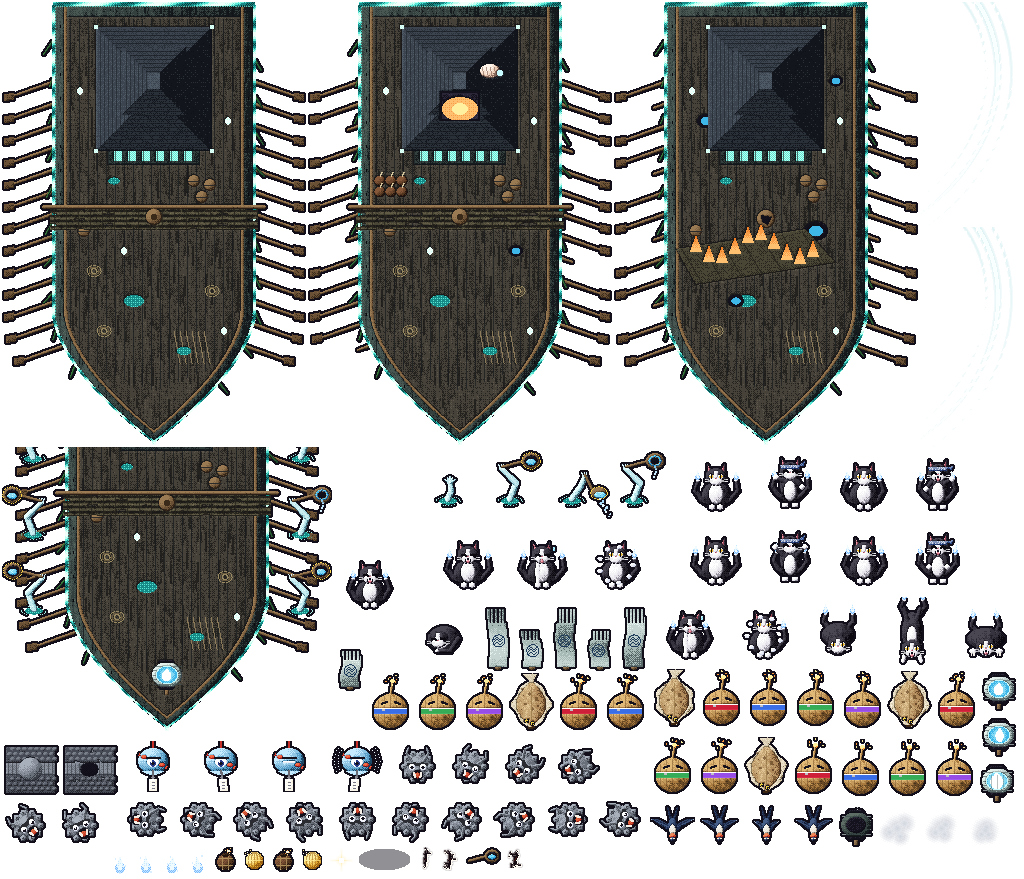
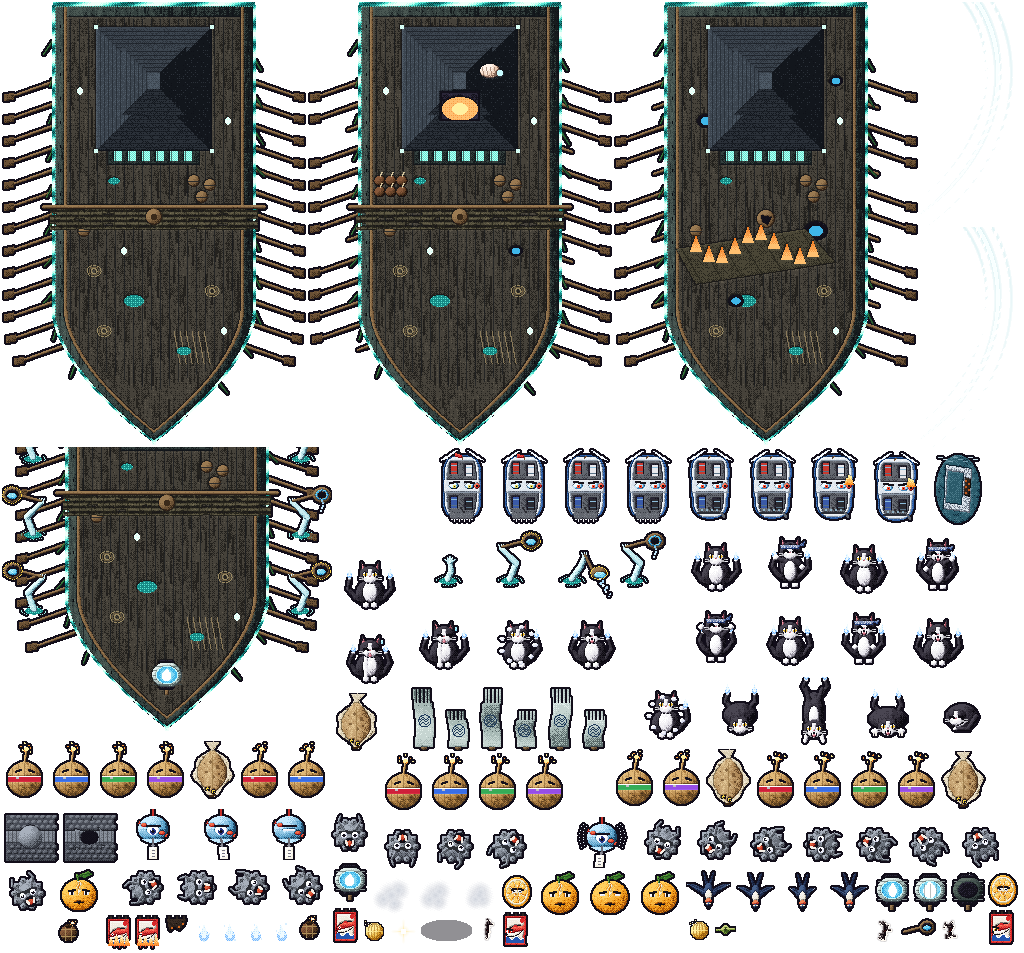
Stronger waves, steps 2-5 for Onomichi and Kyoto: into the game. The designs in the two cities' atlases, their skins (Kyoto's rope of straw, its fox fire blue-white, the clam's knock instead of the squelch). A cart may now sail up the map and stop: Onomichi's ferries dock at the town's pier and stay

diff --git a/src/game/enemies/chainSplitCart.js b/src/game/enemies/chainSplitCart.js
@@ -237,17 +237,21 @@ export const chainSplitCart = {
   },
 
   // ---------------------------------------------------------------- cart
-  /** Down its street (w.x), or across from a screen edge (w.dir -1/1 at w.y), like Sapporo's snowploughs. */
+  /**
+   * Down its street (w.x; w.up: up it, as a ferry crossing against the scroll), or across from a screen edge (w.dir
+   * -1/1 at w.y), like Sapporo's snowploughs. w.stop: where its way ends (a u going up or down, an x going across):
+   * it stops there, as a ferry at its pier, and fights on where it lies.
+   */
   spawnCart(w, base, look) {
     const s = this.scene;
     const horiz = typeof w.dir === 'number';
     const x = horiz ? (w.dir > 0 ? -16 : VIEW.width + 16) : w.x;
     const y = horiz ? w.y : -20;
-    const e = this.pool.spawn(`${look.anim}0_0`, x, y, { ...base, horiz, dir: horiz ? w.dir : 1, wreck: look.wreck, timer: 1.4, cartStage: 0 });
+    const e = this.pool.spawn(`${look.anim}0_0`, x, y, { ...base, horiz, dir: horiz ? w.dir : w.up ? -1 : 1, stop: w.stop ?? null, docked: false, wreck: look.wreck, timer: 1.4, cartStage: 0 });
     e.u = s.parallax.stripU(y);
     e.look = look;
     e.play(`${look.anim}0`);
-    if (horiz) e.setRotation(-e.dir * Math.PI / 2); // (it is drawn driving down the screen)
+    e.setRotation(horiz ? -e.dir * Math.PI / 2 : e.dir < 0 ? Math.PI : 0); // (it is drawn driving down the screen)
     return e;
   },
 
@@ -259,11 +263,21 @@ export const chainSplitCart = {
     // a wheel gone: it limps along slower, lurching
     const limp = e.cartStage >= 2;
     const v = CART.speed * (limp ? 0.6 : 1) * (limp ? 0.75 + Math.abs(Math.sin(e.age * 4)) * 0.5 : 1);
-    if (e.horiz) e.x += e.dir * v * dt;
-    else e.u -= v * dt;
+    if (!e.docked) {
+      if (e.horiz) e.x += e.dir * v * dt;
+      else e.u -= e.dir * v * dt;
+      // (at the end of its way it stops: a ferry at its pier)
+      const at = e.horiz ? e.x : e.u;
+      const past = e.stop != null && (e.horiz ? e.dir * (at - e.stop) : -e.dir * (at - e.stop)) >= 0;
+      if (past) {
+        if (e.horiz) e.x = e.stop;
+        else e.u = e.stop;
+        e.docked = true;
+      }
+    }
     e.y = s.parallax.screenY(e.u);
-    const base = e.horiz ? -e.dir * Math.PI / 2 : 0;
-    e.setRotation(base + (limp ? Math.sin(e.age * 4) * 0.09 : 0));
+    const base = e.horiz ? -e.dir * Math.PI / 2 : e.dir < 0 ? Math.PI : 0;
+    e.setRotation(base + (limp && !e.docked ? Math.sin(e.age * 4) * 0.09 : 0));
     if (e.cartStage >= 3 && Math.random() < dt * 14) {
       // the roof burning
       s.fx.smoke(e.x + (Math.random() - 0.5) * 8, e.y - 6, 1, 2, true);

diff --git a/src/game/skins.js b/src/game/skins.js
@@ -32,6 +32,11 @@ export const SKINS = {
     heavy: { frame: 'tanuki_0', anim: 'tanuki', kind: 'tanuki' },
     tanuki: { frame: 'tanuki_0', anim: 'tanuki', kind: 'tanuki' }, // (the waves name it: look: 'tanuki')
     turret: { base: 'turret_base', head: 'turret_head_', wreck: 'turret_wreck' },
+    // the shared three (enemies/chainSplitCart.js): omikuji on a straw rope catching the fox fire, kai-awase shells, a
+    // yamaboko of the Gion festival driving itself
+    chain: { frame: 'ky_kuji_0', eye: 'ky_kuji_eye_', lit: 'ky_kuji_lit_', burnt: 'ky_kuji_burnt', pole: 'ky_pole', rope: 0xb8a060, char: 0x4a4a56, light: 0x8ad0ff, text: 0xa8e0ff },
+    split: { frame: 'ky_kai_0', anim: 'ky_kai', one: 'ky_kai_one_0', oneAnim: 'ky_kai_one', sound: 'crock' },
+    cart: { anim: 'ky_hoko_', wreck: 'ky_hoko_wreck', debris: 0x6a4a30 },
   },
   okinawa: {
     trap: trap('okinawa', 'water', 13, { kind: 'ring', n: 8 }, 3.4), // a blowhole in the reef (enemies/traps.js)
@@ -163,6 +168,10 @@ export const SKINS = {
     carrier: { frame: 'o_hanabi_{c}_0', anim: 'o_hanabi_{c}' },
     heavy: { frame: 'o_neko_sit_0', kind: 'nekomata' }, // the miniboss: NEKOMATA (onomichi-nekomata.js)
     turret: { base: 'o_ridge_base', head: 'o_oni_head_', wreck: 'o_ridge_wreck', heat: true }, // (its mouth glows red before it fires)
+    // the shared three (enemies/chainSplitCart.js): fishermen's flags on a rope, a hassaku, the ferry over the strait
+    chain: { frame: 'o_bata_0', eye: 'o_bata_eye_', lit: 'o_bata_lit_', burnt: 'o_bata_burnt', pole: 'o_pole' },
+    split: { frame: 'o_hassaku_0', anim: 'o_hassaku', one: 'o_hassaku_one_0', oneAnim: 'o_hassaku_one' },
+    cart: { anim: 'o_ferry_', wreck: 'o_ferry_wreck', debris: 0xdce4ec },
   },
   // Fukuoka (docs/plan-fukuoka.md): plum flowers flying in flocks (tobiume), the spinning top of Hakata, a fugu
   // puffing into spines, Dazaifu's wooden bullfinch carrying the power-ups, an archer of Hakata clay on its stand

diff --git a/src/game/enemyArt.js b/src/game/enemyArt.js
@@ -146,6 +146,10 @@ export const CITY_ANIMS = {
   // Onomichi
   o_tsubame: [four('o_tsubame'), 14], o_debera: [four('o_debera'), 8], o_furin: [four('o_furin'), 3],
   ...Object.fromEntries(['red', 'blue', 'green', 'purple'].map((c) => [`o_hanabi_${c}`, [four(`o_hanabi_${c}`), 6]])),
+  // the shared behaviours' looks (enemies/chainSplitCart.js): Onomichi's hassaku and ferry, Kyoto's shells and float
+  o_hassaku: [four('o_hassaku'), 5], o_hassaku_one: [['o_hassaku_one_0', 'o_hassaku_one_1'], 6],
+  ky_kai: [four('ky_kai'), 4], ky_kai_one: [['ky_kai_one_0', 'ky_kai_one_1'], 6],
+  ...Object.fromEntries([0, 1, 2, 3].flatMap((st) => [[`o_ferry_${st}`, [[`o_ferry_${st}_0`, `o_ferry_${st}_1`], 4]], [`ky_hoko_${st}`, [[`ky_hoko_${st}_0`, `ky_hoko_${st}_1`], 6]]])),
   // Fukuoka
   f_tobiume: [four('f_tobiume'), 12], f_goma: [four('f_goma'), 16], f_fugu: [four('f_fugu'), 3],
   f_mentaiko: [four('f_mentaiko'), 5], f_mentaiko_one: [['f_mentaiko_one_0', 'f_mentaiko_one_1'], 6],

diff --git a/docs/plan-silniejsze-fale.md b/docs/plan-silniejsze-fale.md
@@ -129,4 +129,5 @@ Pierwszy krok, wspólny: przeniesienie zachowań z `fukuoka.js` do wspólnego mo
 | Data | Kto | Krok | Co zrobione | Uwagi |
 |---|---|---|---|---|
 | 2026-11-19 | Claude | 0 | Zachowania przeniesione do `src/game/enemies/chainSplitCart.js` (bez zmian w działaniu; skórka może zmienić kolory liny, światło, kolor punktów, dźwięk pary, odłamki i ogień wozu). Bot w Fukuoce jak przedtem. | |
-| 2026-11-19 | Claude | 1 (Onomichi, Kioto) | Projekty grafiki do akceptacji: `tools/art/onomichi/newfoes.mjs` (flagi tairyō-bata z leszczem nad falą, hassaku i jego połówki, prom z mostkiem-oczami, autami na pokładzie i rampą-szczęką, wrak nisko w wodzie) i `tools/art/kyoto/newfoes.mjs` (omikuji na słomianej linie między cynobrowymi słupkami z lisim ogniem, muszla kai-awase z oczami w szparze i jej złocone połówki z sosną i śliwą, yamaboko z drzewcem, sakaki, halabardą, gobelinami i twarzą demona, wrak przewrócony). Jeszcze nie w atlasach ani w grze. | Czeka na akceptację; prom ma 4 stopnie rozpadu, platforma też. |
+| 2026-11-19 | Claude | 1 (Onomichi, Kioto) | Projekty grafiki do akceptacji: `tools/art/onomichi/newfoes.mjs` (flagi tairyō-bata z leszczem nad falą, hassaku i jego połówki, prom z mostkiem-oczami, autami na pokładzie i rampą-szczęką, wrak nisko w wodzie) i `tools/art/kyoto/newfoes.mjs` (omikuji na słomianej linie między cynobrowymi słupkami z lisim ogniem, muszla kai-awase z oczami w szparze i jej złocone połówki z sosną i śliwą, yamaboko z drzewcem, sakaki, halabardą, gobelinami i twarzą demona, wrak przewrócony). Jeszcze nie w atlasach ani w grze. | Zaakceptowane 2026-11-19. Prom ma 4 stopnie rozpadu, platforma też. |
+| 2026-11-19 | Claude | 2-5 (Onomichi, Kioto) | Grafika w atlasach `bg/stage11` i `bg/stage1`, skórki `chain`/`split`/`cart` w `skins.js` (Kioto: słomiana lina, lisi ogień niebiesko-biały, stuk muszli zamiast mlaśnięcia). Wóz umie teraz płynąć w górę mapy i zatrzymać się (`stop`), więc prom w Onomichi dobija do nabrzeża miasta i tam zostaje. **Onomichi:** 8 lin z flagami nad drogą rowerową i nadbrzeżną (słupki na lądzie, poza drogami i terenem świątyń), 13 par hassaku, 4 promy (jeden płynie cieśniną przy Ozaki, trzy przepływają z Mukaishimy i dobijają do nabrzeża); popcorn 42%. **Kioto:** 3 liny z omikuji (nad Hanamikōji i sandō Fushimi Inari), 12 par muszli, 2 platformy yamaboko (Hanamikōji, sandō); popcorn 56%. Bot (4 bronie, moc 4), trafienia przed bossem: Onomichi 5 → 15 na normalnym (0-5 na przebieg), 3 → 8 na łatwym; Kioto 14 → 17 i 10 → 11. Testy `onomichiWaves` i `kyotoWaves`. | W Kioto najpierw było 7 lin i 3 platformy: trafienia przed bossem 14 → 29. Zdjęte 2 liny z otwarcia, a wóz na Gojō-zace i 2 liny przy Sannenzace wypadały w walce z tanuki, który nie wstrzymuje przewijania. Kioto zostaje lekkie, bo jest pierwsze. Do zrobienia przez człowieka: przelot bez trybu boga. |
